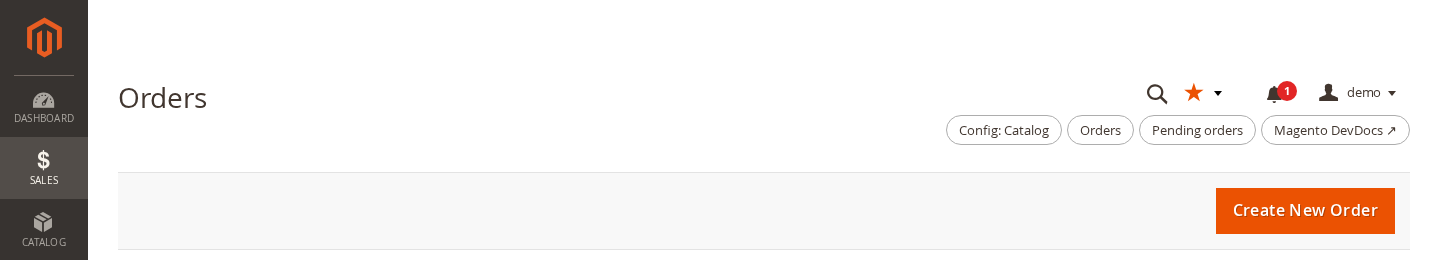
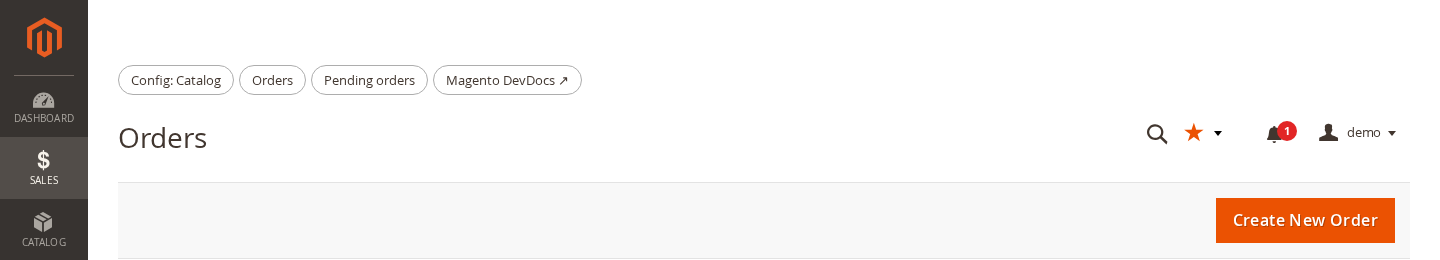
feat: quick links above the header row, and inside the sticky action bar
The pinned chips move to the first row of the admin header, above title and
actions. When Magento's page actions bar turns sticky on scroll, a copy of the
chips is placed into it between title and buttons; it adds no height to the
bar and clips at the buttons instead of overlapping them.

diff --git a/view/adminhtml/web/css/quicklinks.css b/view/adminhtml/web/css/quicklinks.css
@@ -7,7 +7,7 @@
  * @link https://brocode.at
  */
 
-/* Header row 1: star + dropdown, floated with search / notifications / user */
+/* Header row 2: star + dropdown, floated with search / notifications / user */
 .brocode-quicklinks.admin__action-dropdown-wrap {
     display: flex;
     align-items: center;
@@ -16,36 +16,58 @@
     margin-right: .6rem;
 }
 
-/*
- * Header row 2: the pinned chips. The bar lives inside .page-header-actions, which is only
- * a third of the header wide (col-l-4) or half of it (col-m-6); the negative margin
- * stretches it back to the full header width so the chips are not squeezed.
- */
+/* Header row 1: the pinned chips, above the title / actions row */
 .brocode-quicklinks-bar {
     display: flex;
     flex-wrap: wrap;
-    justify-content: flex-end;
+    justify-content: flex-start;
     gap: .5rem;
-    clear: both;
     margin: 0;
     padding: 0;
     list-style: none;
 }
 
 .brocode-quicklinks-bar:has(> li) {
-    padding-top: .6rem;
+    padding-bottom: 1rem;
 }
 
-@media (min-width: 768px) {
-    .page-header-actions .brocode-quicklinks-bar {
-        margin-left: -100%;
-    }
+/* Copy of the chips inside Magento's sticky page actions bar, only while it is fixed.
+   As a flex container it sits between the floated title and buttons and takes exactly
+   the room left there. Zero height keeps the bar at its core height (title and buttons
+   are floats and give it none); overflow-x: clip cuts off chips that do not fit while
+   the chips still paint below the zero-height box. */
+.page-actions .brocode-quicklinks-sticky {
+    display: none;
 }
 
-@media (min-width: 1024px) {
-    .page-header-actions .brocode-quicklinks-bar {
-        margin-left: -200%;
-    }
+.page-actions._fixed .brocode-quicklinks-sticky {
+    display: flex;
+    flex-wrap: nowrap;
+    align-items: flex-start;
+    height: 0;
+    overflow-x: clip;
+    overflow-y: visible;
+    position: relative;
+    top: .8rem;
+    margin: 0;
+    padding: 0 0 0 2rem;
+}
+
+/* Chips that do not fit are clipped; this fade in the bar's own colour shows that more
+   follow. Over empty space (everything fits) it is invisible. */
+.page-actions._fixed .brocode-quicklinks-sticky::after {
+    content: '';
+    position: absolute;
+    top: 0;
+    right: 0;
+    width: 3rem;
+    height: 3rem;
+    background: linear-gradient(to right, rgba(248, 248, 248, 0), #f8f8f8);
+    pointer-events: none;
+}
+
+.brocode-quicklinks-sticky .brocode-quicklinks-item {
+    flex: 0 0 auto;
 }
 
 .brocode-quicklinks-item {

diff --git a/view/adminhtml/web/js/quicklinks-toggle.js b/view/adminhtml/web/js/quicklinks-toggle.js
@@ -16,6 +16,11 @@ define([
     /**
      * Header star: adds the current page as a pinned quick link, or removes it again.
      * The pinned chips live in a separate header row, so they are looked up by selector.
+     *
+     * When Magento's page actions bar turns sticky on scroll (mage/backend/floating-header
+     * adds `_fixed`), a copy of the chips is placed into it, between title and buttons.
+     * The copy is made lazily at that moment because floating-header rebuilds the bar's
+     * markup on init, and is only shown while the bar is fixed (see quicklinks.css).
      */
     $.widget('brocode.quickLinksToggle', {
         options: {
@@ -28,6 +33,24 @@ define([
             this.star = this.element.find('[data-role=quicklinks-star]');
             this.bar = $('[data-role=quicklinks-bar]');
             this.star.on('click', this._toggle.bind(this));
+            // Deferred a frame: floating-header sets `_fixed` in its own scroll handler,
+            // which may run after this one.
+            $(window).on('scroll resize', function () {
+                window.requestAnimationFrame(this._syncSticky.bind(this));
+            }.bind(this));
+        },
+
+        _syncSticky: function () {
+            var inner = $('.page-actions._fixed .page-actions-inner');
+
+            if (inner.length && !inner.children('.brocode-quicklinks-sticky').length) {
+                inner.append(this.bar.clone().removeAttr('data-role').addClass('brocode-quicklinks-sticky'));
+            }
+        },
+
+        _chipsChanged: function () {
+            $('.brocode-quicklinks-sticky').remove();
+            this._syncSticky();
         },
 
         _toggle: function () {
@@ -37,6 +60,7 @@ define([
                 this._post(this.options.deleteUrl, {id: id}).done(function () {
                     this.element.add(this.bar).find('[data-link-id="' + id + '"]').remove();
                     this._setCurrent(null);
+                    this._chipsChanged();
                 }.bind(this));
 
                 return;
@@ -46,6 +70,7 @@ define([
                 .done(function (response) {
                     this.bar.append(this._chip(response.link));
                     this._setCurrent(response.link.id);
+                    this._chipsChanged();
                 }.bind(this));
         },
 

diff --git a/Block/Adminhtml/Header/QuickLinks.php b/Block/Adminhtml/Header/QuickLinks.php
@@ -43,8 +43,8 @@ use Magento\Framework\Serialize\Serializer\Json;
  *
  * - `header/star.phtml` sits with the other header actions (search, notifications, user):
  *   the star toggle for the current page and the dropdown of unpinned links.
- * - `header/bar.phtml` is its own full-width row below them, holding the pinned links.
- *   It must come after every floated header action, or it pushes them down (see default.xml).
+ * - `header/bar.phtml` is the first row of the header, above title and actions, holding
+ *   the pinned links (see default.xml).
  */
 class QuickLinks extends Template
 {

diff --git a/README.md b/README.md
@@ -28,8 +28,15 @@ the dashboard.
 - **A star in the admin header** favourites the page you are on, and clicking it again
   removes the page. A filled star means the current page is already a quick link. The
   label defaults to the page title ("Orders", "Products") and can be renamed later.
-- **Pinned links show as buttons in their own header row**, so each one is a single
-  click away, with no dropdown to open first.
+- **Pinned links show as buttons in the first row of the header**, above the page
+  title, so each one is a single click away, with no dropdown to open first.
+- **They stay reachable while you scroll.** On pages with Magento's sticky action bar
+  (configuration, edit forms, most grids), the chips appear inside that bar, between
+  the page title and its buttons, once it turns sticky. Chips that don't fit are
+  cut off at the buttons and fade out; the bar keeps its normal height.
+
+![Quick links inside the sticky action bar on a configuration page](docs/images/sticky-bar.png)
+
 - **Unpinned links go into the dropdown next to the star.** Pinning is per link, so the
   daily pages stay visible and the occasional ones wait in the dropdown. The dropdown
   always ends with a fixed *Manage quick links →* entry.
@@ -85,7 +92,10 @@ runs on `backend`.
 ## Not in this version
 
 - Sharing links between users, or setting them per role. Every list is personal.
-- A limit on the number of links. The header row wraps instead of hiding links.
+- A limit on the number of links. The header row wraps instead of hiding links; in
+  the sticky bar, links past the available width are cut off.
+- Sticky links on pages without Magento's action bar: there, the chips scroll away
+  with the header.
 
 ## Compatibility
 
@@ -120,4 +130,6 @@ A browser end-to-end run against 2.4.8-p5 (Playwright, custom admin frontName
 - adding external and pasted admin links
 - renaming and pinning
 - arrow and drag-and-drop reordering after a reload
+- the chip copy in the sticky action bar: bar height unchanged, no overlap with the
+  buttons, and kept in sync when the star adds or removes a link
 - rejection of `javascript:` URLs, cross-user writes and requests without a form key
